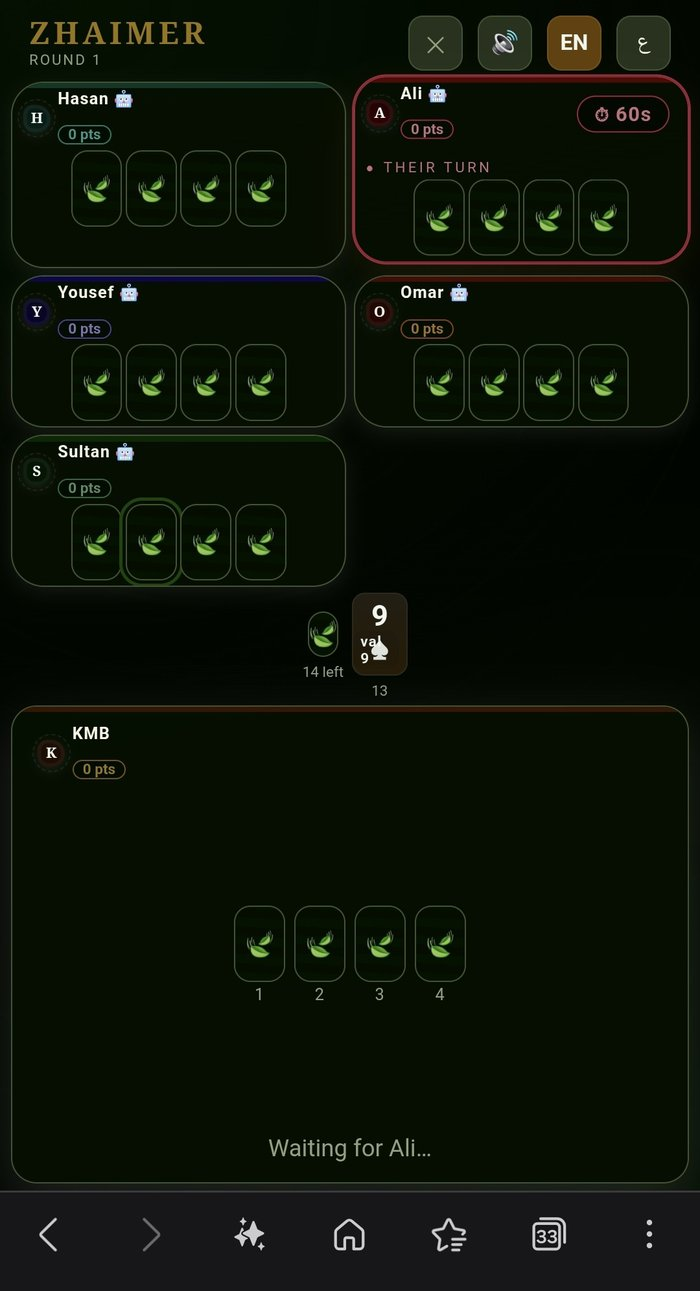
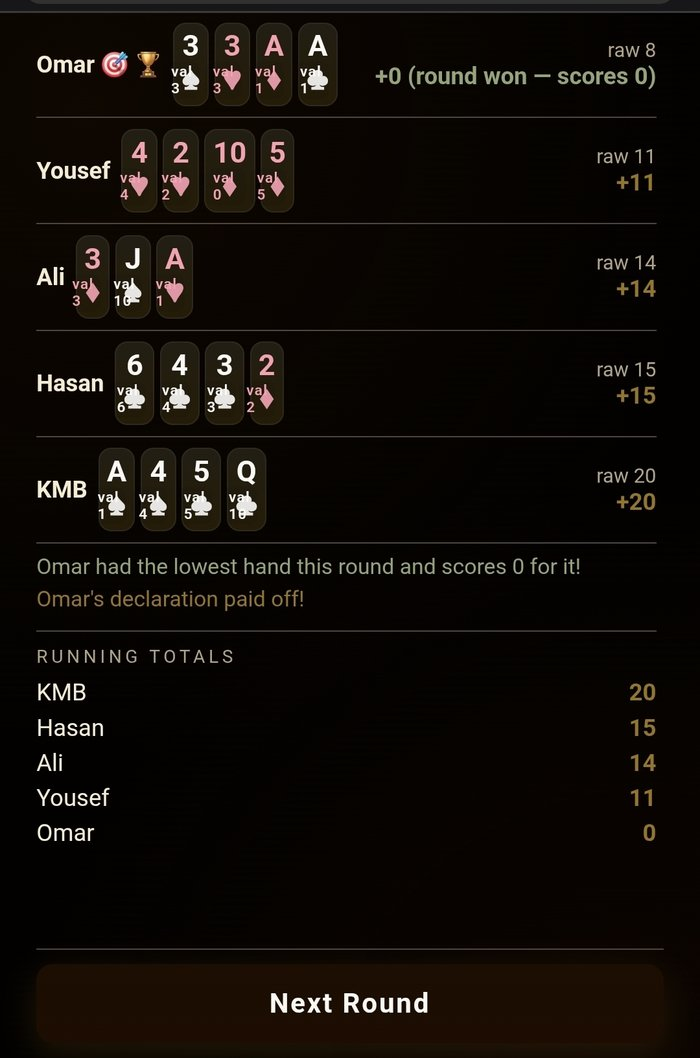
Add files via upload

diff --git a/index.html b/index.html
@@ -333,9 +333,19 @@
               <figure class="gallery-figure">
                 <img
                   src="assets/images/zhaimer-screenshot-3.jpg"
-                  alt="Zhaimer turn indicator showing an opponent's turn in progress"
+                  alt="Zhaimer round results screen showing each player's final hand and running score totals"
                  loading="lazy" />
-                <figcaption>Turn-Based Play — track whose turn it is at a glance</figcaption>
+                <figcaption>Round Results — see every hand revealed and the running score totals</figcaption>
+              </figure>
+            </div>
+
+            <div class="gallery-small">
+              <figure class="gallery-figure">
+                <img
+                  src="assets/images/zhaimer-screenshot-4.jpg"
+                  alt="Zhaimer turn indicator showing an opponent's turn in progress with a highlighted card slot"
+                 loading="lazy" />
+                <figcaption>Turn-Based Play — see whose turn it is and what's changed in their hand</figcaption>
               </figure>
             </div>
           </div>

diff --git a/index-ar.html b/index-ar.html
@@ -317,8 +317,15 @@
 
             <div class="gallery-small">
               <figure class="gallery-figure">
-                <img src="assets/images/zhaimer-screenshot-3.jpg" alt="مؤشر الدور يوضح دور أحد الخصوم الجاري"  loading="lazy" />
-                <figcaption>لعب بالتناوب — تابع دور كل لاعب بسهولة</figcaption>
+                <img src="assets/images/zhaimer-screenshot-3.jpg" alt="شاشة نتائج الجولة تُظهر يد كل لاعب والنقاط التراكمية"  loading="lazy" />
+                <figcaption>نتائج الجولة — شاهد أوراق كل لاعب والنقاط التراكمية</figcaption>
+              </figure>
+            </div>
+
+            <div class="gallery-small">
+              <figure class="gallery-figure">
+                <img src="assets/images/zhaimer-screenshot-4.jpg" alt="مؤشر الدور يوضح دور أحد الخصوم مع تمييز البطاقة التي تغيّرت"  loading="lazy" />
+                <figcaption>لعب بالتناوب — تعرّف على دور كل لاعب وما تغيّر في يده</figcaption>
               </figure>
             </div>
           </div>